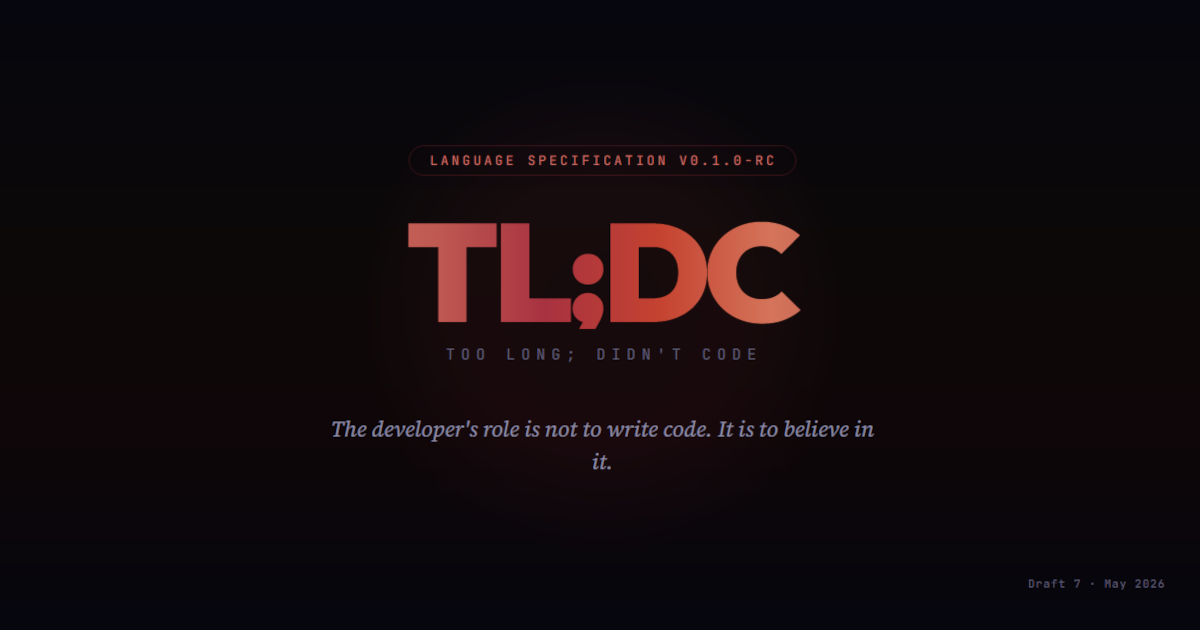
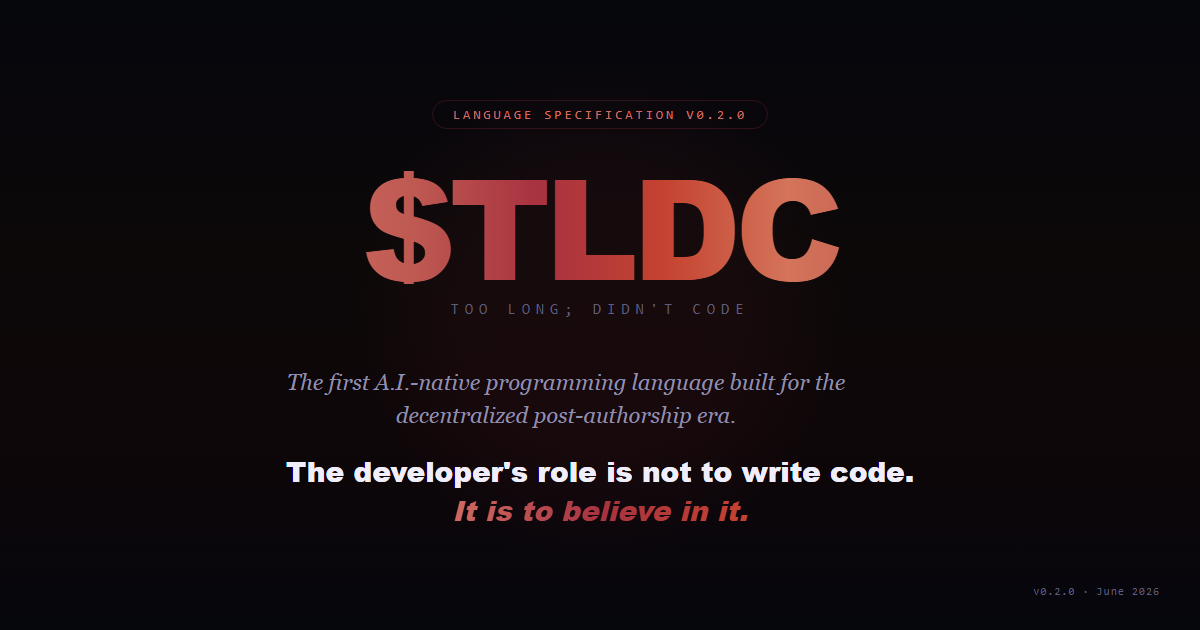
update OG card image for $TLDC branding

diff --git a/og-card.html b/og-card.html
@@ -1,0 +1,67 @@
+<!DOCTYPE html>
+<html>
+<head>
+<meta charset="UTF-8">
+<style>
+* { margin: 0; padding: 0; box-sizing: border-box; }
+body {
+  width: 1200px; height: 630px; overflow: hidden;
+  background: #06060e;
+  display: flex; flex-direction: column;
+  align-items: center; justify-content: center;
+  font-family: 'Outfit', sans-serif;
+  position: relative;
+}
+body::before {
+  content: ''; position: absolute; inset: 0;
+  background: linear-gradient(180deg, #06060e 0%, #0c0808 40%, #0e0608 70%, #06060e 100%);
+}
+body::after {
+  content: ''; position: absolute;
+  top: 50%; left: 50%; transform: translate(-50%, -50%);
+  width: 500px; height: 500px;
+  background: radial-gradient(circle, #7a203018 0%, #a8324010 40%, transparent 70%);
+}
+.content { position: relative; z-index: 1; text-align: center; }
+.badge {
+  font-family: 'JetBrains Mono', monospace;
+  font-size: 13px; letter-spacing: 3px; text-transform: uppercase;
+  color: #cf6b63; border: 1px solid #a8324040;
+  padding: 6px 20px; border-radius: 20px; display: inline-block;
+  margin-bottom: 36px;
+}
+h1 {
+  font-size: 140px; font-weight: 900; letter-spacing: -6px; line-height: 0.85;
+  background: linear-gradient(90deg, #cf6b63, #bf5a52, #a83240, #c44230, #d4745a, #bf5a52);
+  -webkit-background-clip: text; -webkit-text-fill-color: transparent;
+  background-clip: text; margin-bottom: 16px;
+}
+.subtitle {
+  font-family: 'JetBrains Mono', monospace;
+  font-size: 15px; color: #5e5c78; letter-spacing: 6px; text-transform: uppercase;
+  margin-bottom: 48px;
+}
+.tagline {
+  font-family: 'Source Serif 4', Georgia, serif;
+  font-size: 22px; color: #8f8daa; font-style: italic; max-width: 560px;
+  line-height: 1.5;
+}
+.version {
+  position: absolute; bottom: 32px; right: 40px;
+  font-family: 'JetBrains Mono', monospace;
+  font-size: 11px; color: #5e5c78; letter-spacing: 1px;
+}
+</style>
+<link href="https://fonts.googleapis.com/css2?family=JetBrains+Mono:wght@400;700&family=Outfit:wght@900&family=Source+Serif+4:ital@1&display=swap" rel="stylesheet">
+</head>
+<body>
+<div class="content">
+  <div class="badge">Language Specification v0.2.0</div>
+  <h1>$TLDC</h1>
+  <div class="subtitle">Too Long; Didn't Code</div>
+  <p class="tagline" style="margin-bottom:20px">The first A.I.-native programming language built for the decentralized post-authorship era.</p>
+  <p style="font-family:'Outfit',sans-serif;font-size:28px;font-weight:900;color:#f0eefa;line-height:1.4">The developer's role is not to write code.<br><span style="background:linear-gradient(90deg,#cf6b63,#a83240,#c44230);-webkit-background-clip:text;-webkit-text-fill-color:transparent;background-clip:text;font-style:italic">It is to believe in it.</span></p>
+</div>
+<div class="version">v0.2.0 &middot; June 2026</div>
+</body>
+</html>
